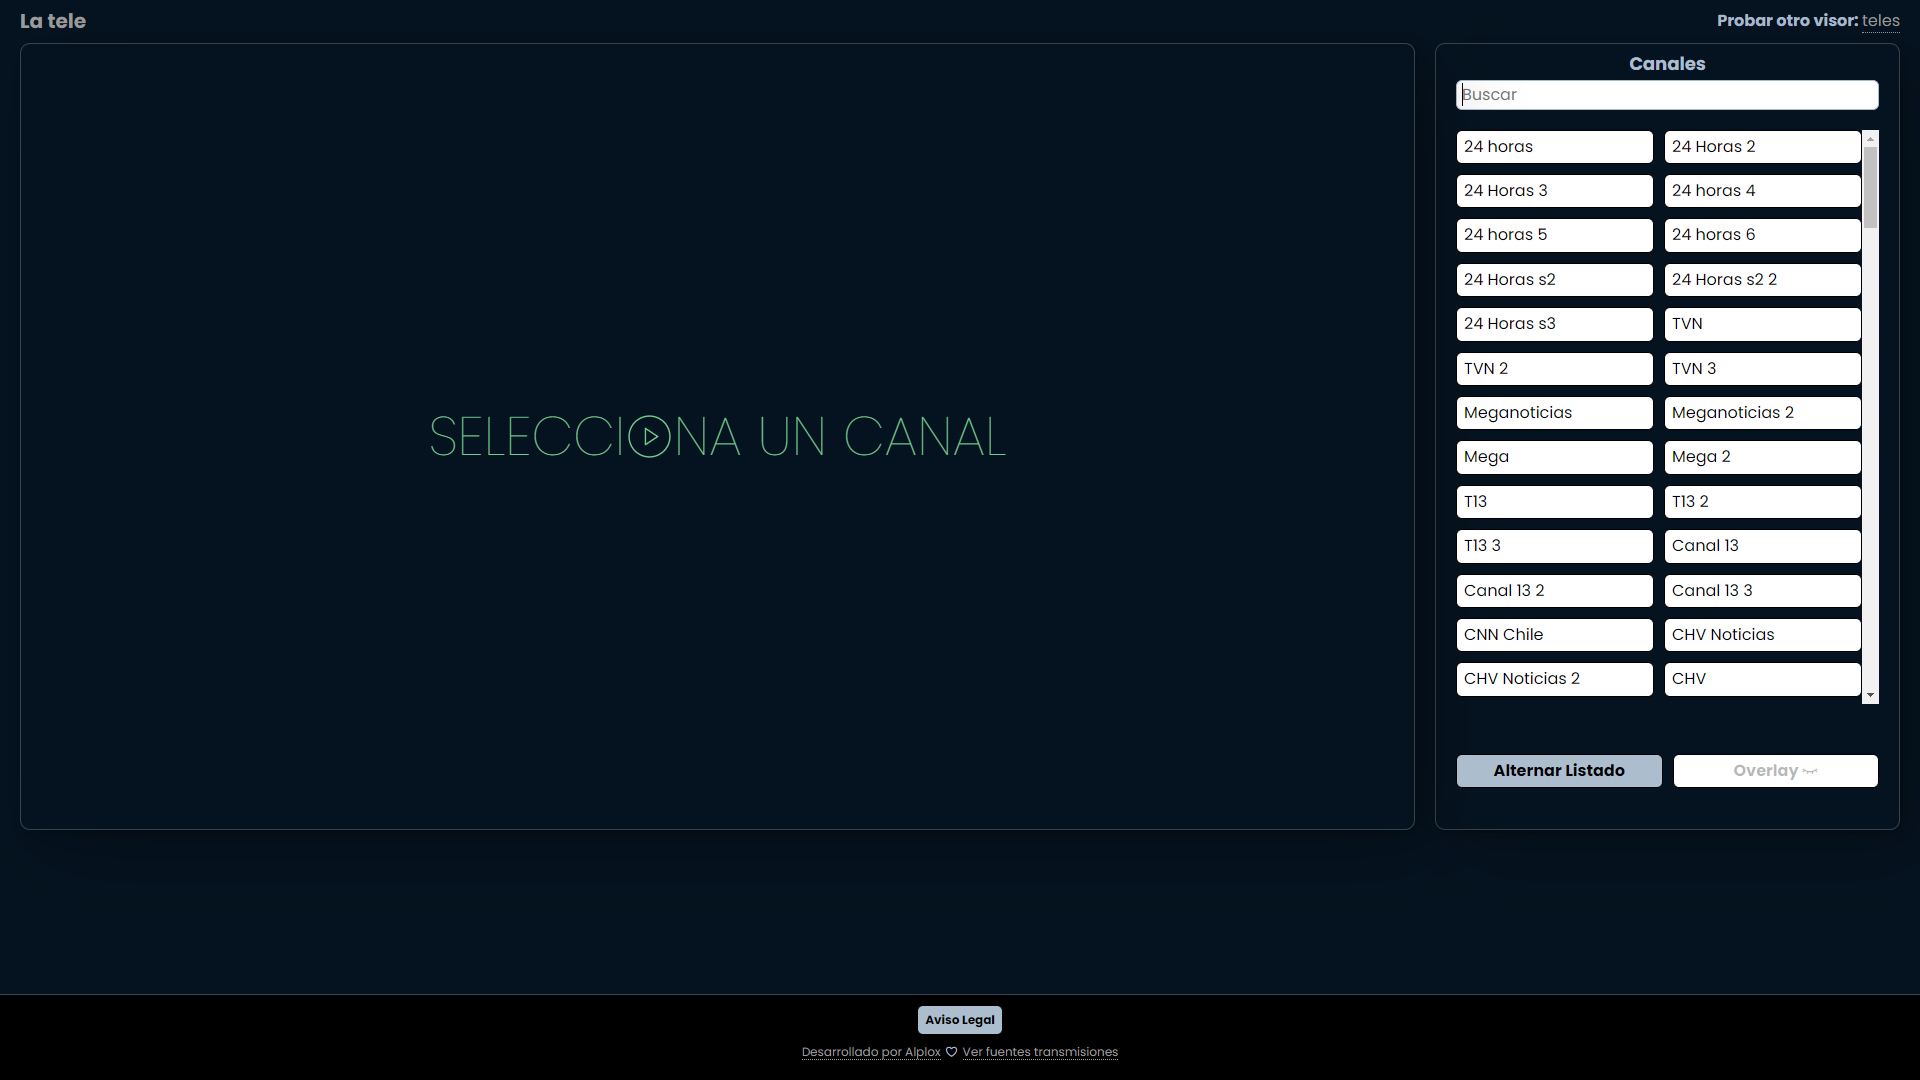
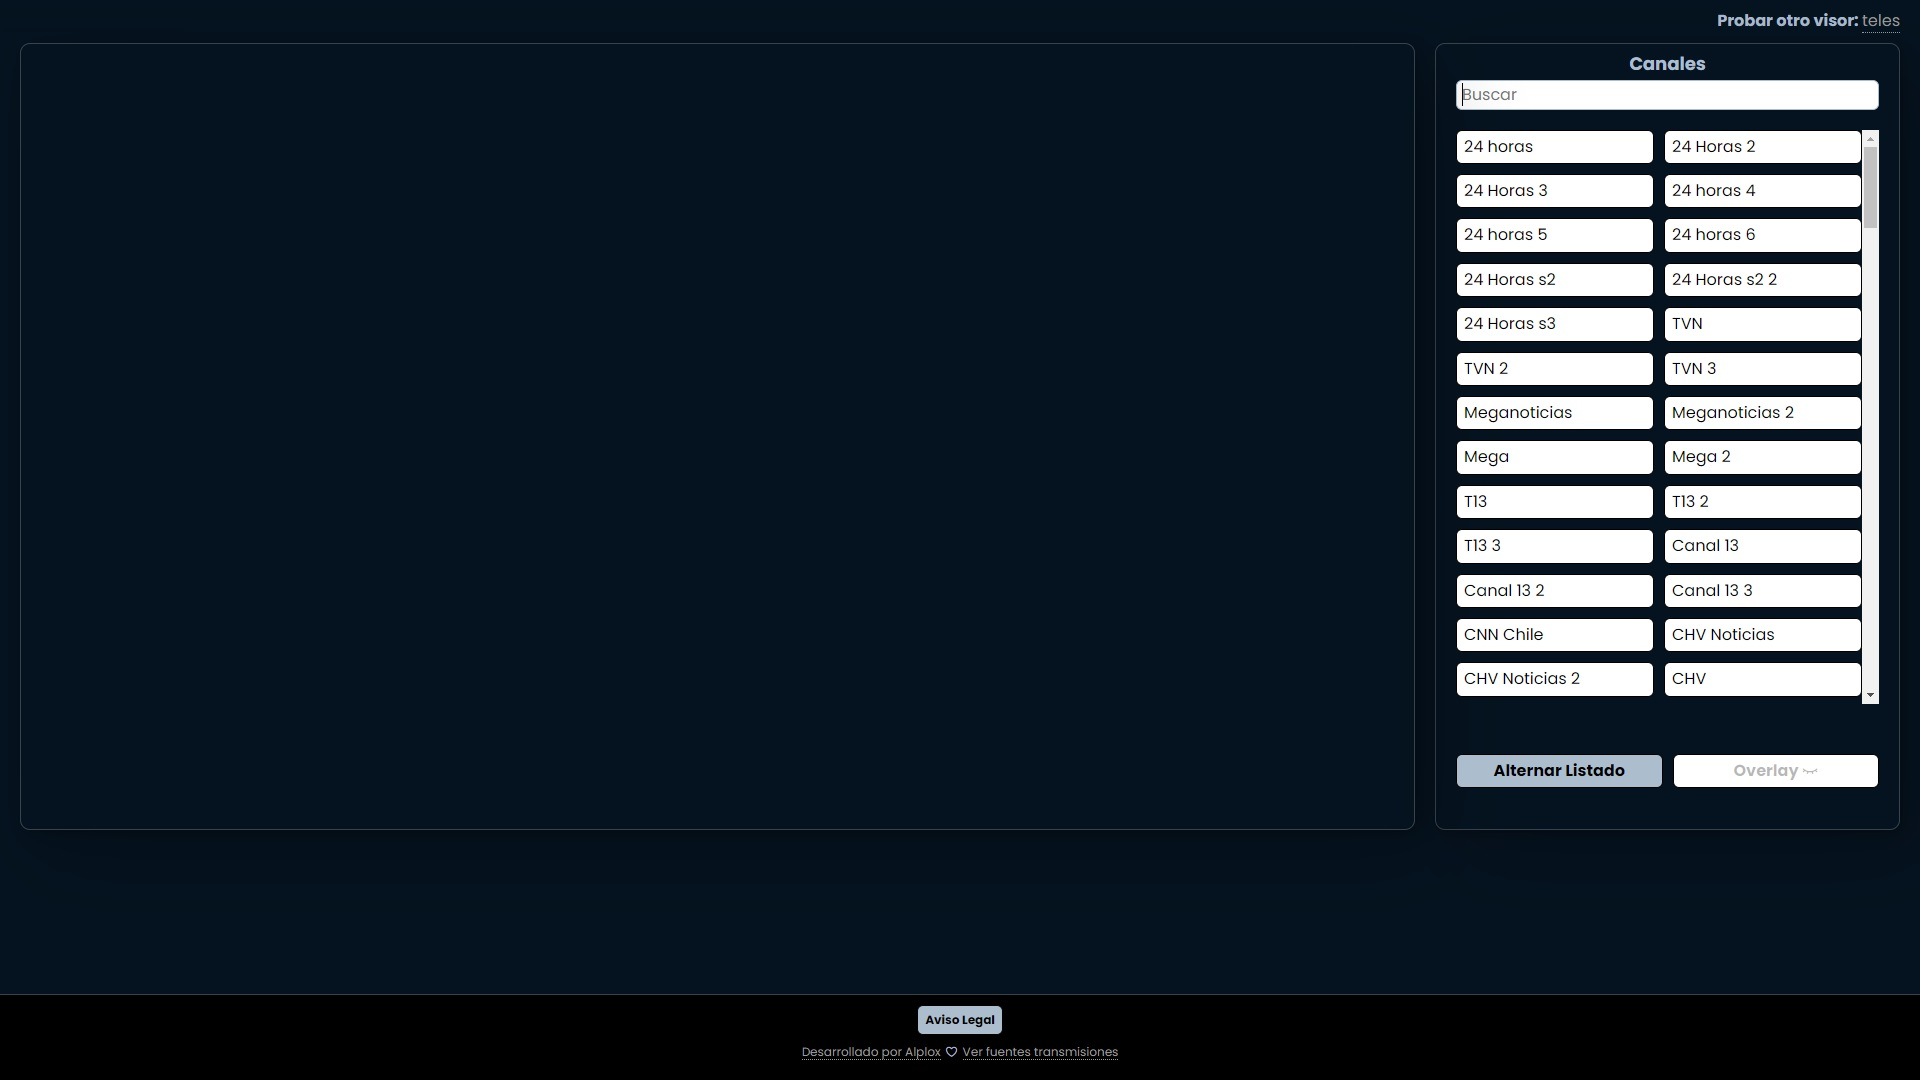
Add files via upload

diff --git a/index.html b/index.html
@@ -22,21 +22,21 @@
     <meta name="theme-color" content="#051320" />
     <!-- Primary Meta Tags -->
     <title>La tele</title>
-    <meta name="title" content="La tele">
+    <meta name="title" content="Turis Tv">
     <meta name="description" content="Canales de Chile a un toque.">
     <!-- Open Graph / Facebook -->
     <meta property="og:type" content="website">
     <meta property="og:url" content="https://akcamvlt.github.io/Turis-Tv.io/">
-    <meta property="og:title" content="La tele">
+    <meta property="og:title" content="Turis Tv">
     <meta property="og:description" content="Canales de Chile a un toque.">
-    <meta property="og:image" content="https://raw.githubusercontent.com/Alplox/la-tele/master/assets/img/v0.9.jpg">
+    <meta property="og:image" content="https://akcamvlt.github.io/Turis-Tv.io/assets/img/v0.9.jpg">
     <!-- Twitter -->
     <meta property="twitter:card" content="summary_large_image">
     <meta property="twitter:url" content="https://akcamvlt.github.io/Turis-Tv.io/">
-    <meta property="twitter:title" content="La tele">
+    <meta property="twitter:title" content="Turis Tv">
     <meta property="twitter:description" content="Canales de Chile a un toque.">
     <meta property="twitter:image"
-        content="https://raw.githubusercontent.com/Alplox/la-tele/master/assets/img/v0.9.jpg">
+        content="https://akcamvlt.github.io/Turis-Tv.io/assets/img/v0.9.jpg">
 
     <script type="module">
         import 'https://cdn.jsdelivr.net/npm/@pwabuilder/pwaupdate';
@@ -63,8 +63,8 @@
             <a href="./" target="_self">La tele</a>
         </h1>
         <p>
-            <strong>Probar otro visor: </strong>
-            <a href="https://akcamvlt.github.io/Turis-Tv.io/" rel="nofollow noreferrer noopener" target="_self">teles</a>
+            <strong>Turis : </strong>
+            <a href="https://akcamvlt.github.io/Turis-Tv.io/" rel="nofollow noreferrer noopener" target="_self">Tv</a>
         </p>
     </header>
 
@@ -85,8 +85,8 @@
 
             <aside class="canales-container sombra">
                 <header class="header-secundario">
-                    <h2>Canales</h2>
-                    <input class="filtro" id="filtro" type="search" title="Buscador" placeholder="Buscar">
+                    <h2>Kanallar</h2>
+                    <input class="filtro" id="filtro" type="search" title="Buscador" placeholder="Ara">
                 </header>
 
                 <div class="flip-container" id="flip-container">
